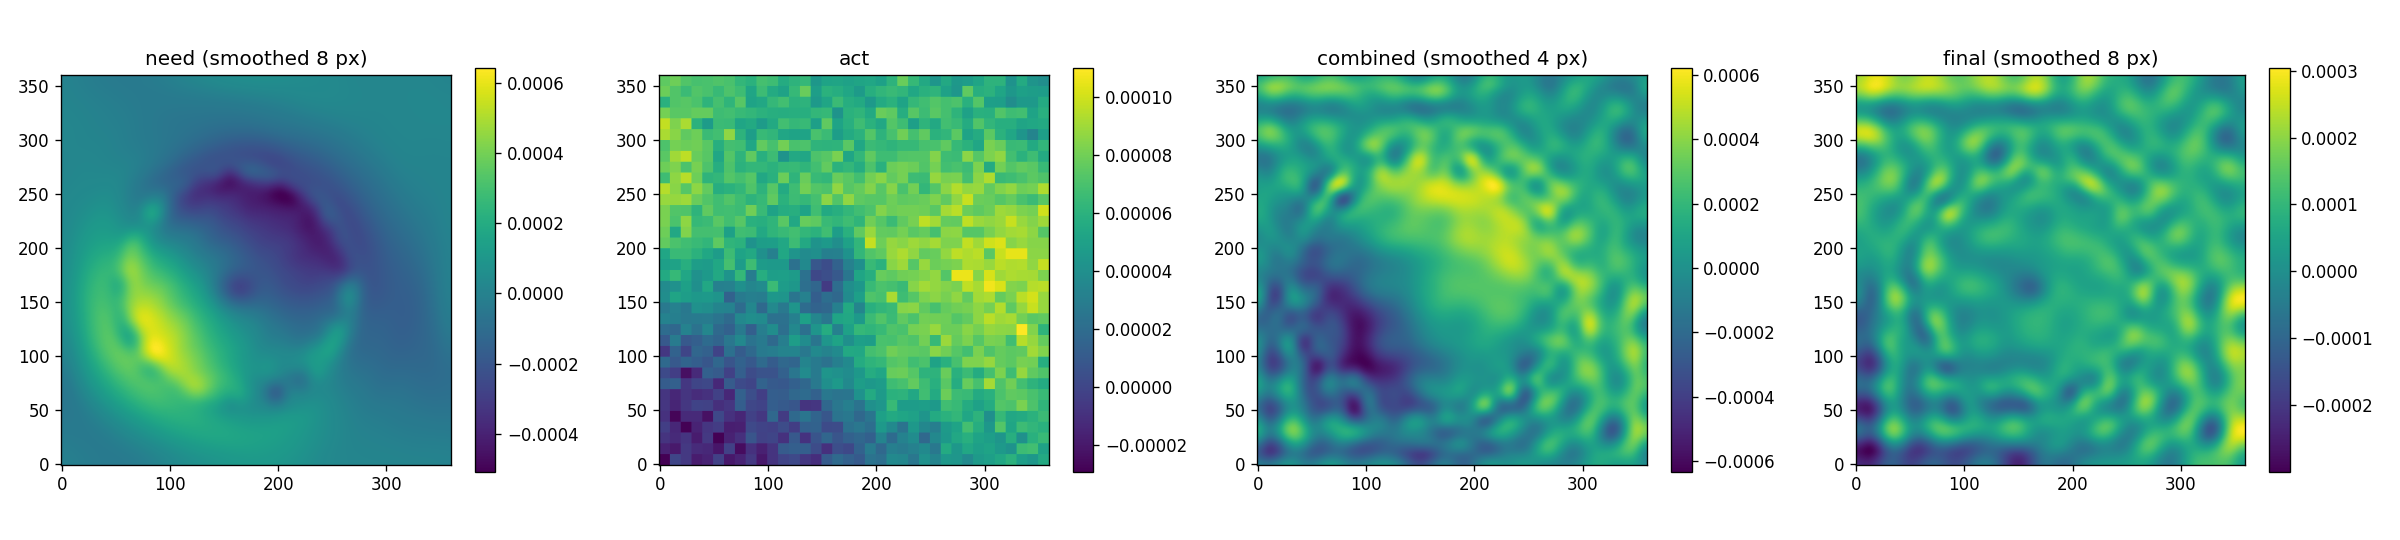
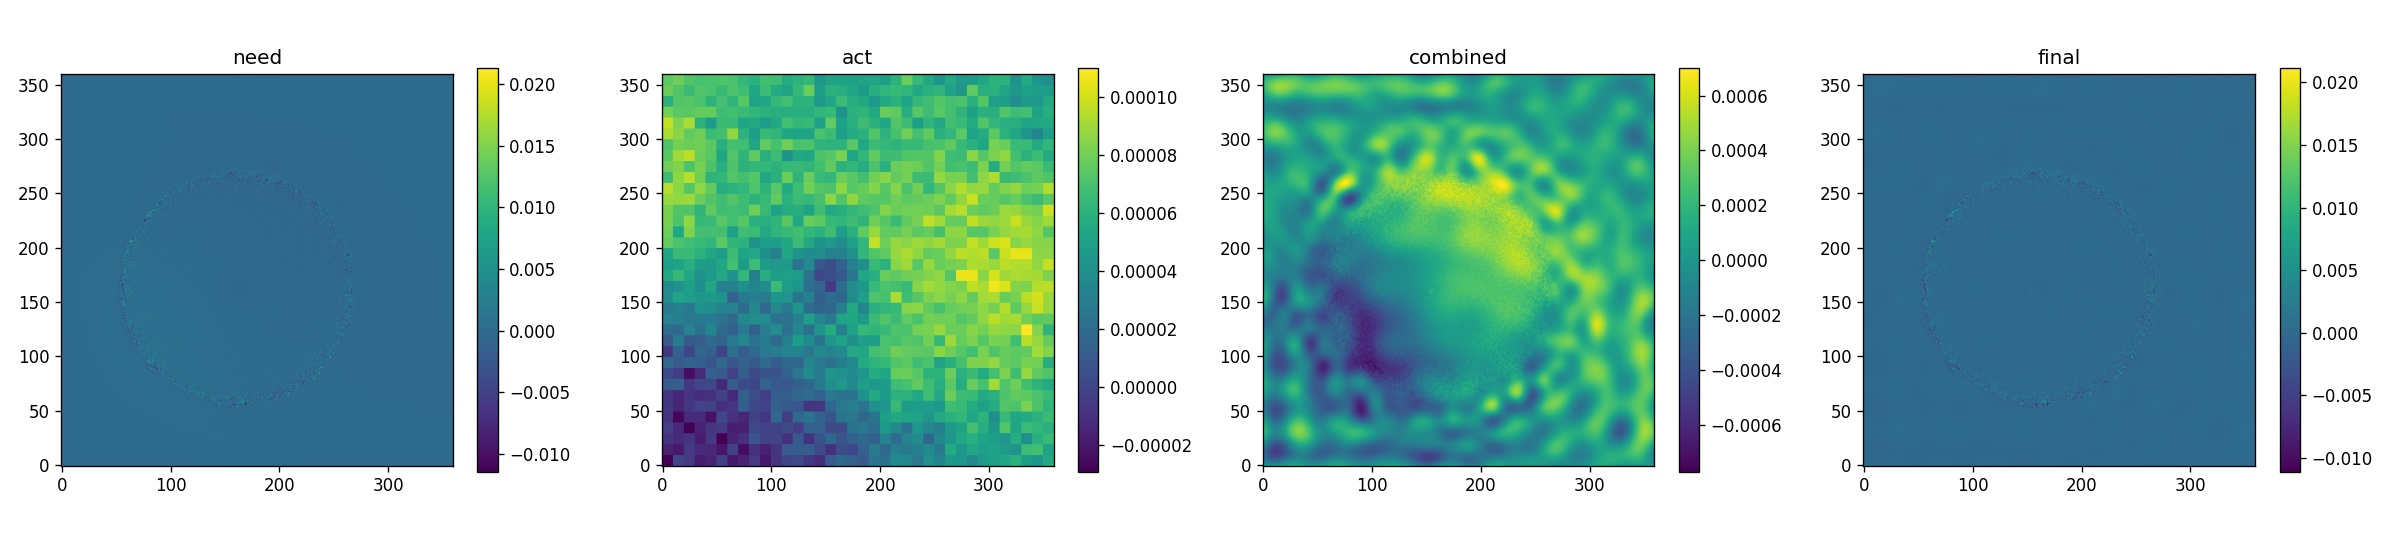
Plot maps without smoothing

Changed region(s): [[0.0, 0.0889, 1.0, 0.9185], [0.3125, 0.7407, 0.375, 0.7704], [0.2812, 0.6815, 0.3125, 0.7407]]

diff --git a/reports/needlet.html b/reports/needlet.html
@@ -24,7 +24,7 @@
 
 <h2>Combined map (MOOJ1142, 20 TODs)</h2>
 <img src="figs/maps.png" alt="maps">
-<p>PCG (M2 only, all scales, 50 iterations), ACT only (inverse variance weighted coadd of the splits), the combined correction (M2 ANA solved for all bands down to the 5&Prime; scale, bands 0&ndash;8; ACT only in bands 0&ndash;3) and final = PCG + combined. Units are Jy/beam, the units of the M2 TODs. The final map is padded by 25% of the data extent on each side and the PCG, combined and final panels are smoothed as indicated.</p>
+<p>PCG (M2 only, all scales, 50 iterations), ACT only (inverse variance weighted coadd of the splits), the combined correction (M2 ANA solved for all bands down to the 5&Prime; scale, bands 0&ndash;8; ACT only in bands 0&ndash;3) and final = PCG + combined. Units are Jy/beam, the units of the M2 TODs. The final map is padded by 25% of the data extent on each side. The panels are not smoothed.</p>
 <p>With 20 TODs the final map has a central rms (smoothed 6 px) of 5.3&times;10<sup>-5</sup> against 2.3&times;10<sup>-4</sup> for PCG alone, and, smoothed to the ACT beam, correlates with ACT at 0.91 inside the footprint (PCG alone: &minus;0.61). The large-scale artifact of the PCG map (a &plusmn;0.5 mJy gradient from the poorly constrained large-scale modes) is removed by the combined solve. With only 2 TODs M2 is too noisy for the cold spot to show above the PCG noise (about 1 mJy per pixel).</p>
 
 <h3>Solving down to 5&Prime;</h3>

diff --git a/examples/needlet_benchmark.py b/examples/needlet_benchmark.py
@@ -26,10 +26,9 @@ def plot_maps(files, out, smooth=None):
     out : str
         Output figure path.
     smooth : dict | None
-        Gaussian smoothing (pixels) by file name suffix, e.g. {"need": 8}. Default smooths the noisy
-        PCG based maps (need, combined, final).
+        Gaussian smoothing (pixels) by file name suffix, e.g. {"need": 8}. Default is no smoothing.
     """
-    smooth = {"need": 8, "combined": 4, "final": 8} if smooth is None else smooth
+    smooth = {} if smooth is None else smooth
     fig, axs = plt.subplots(1, len(files), figsize=(5 * len(files), 4.5), squeeze=False)
     for ax, f in zip(axs[0], files):
         name = os.path.basename(f).rsplit("_", 1)[-1][:-5]
